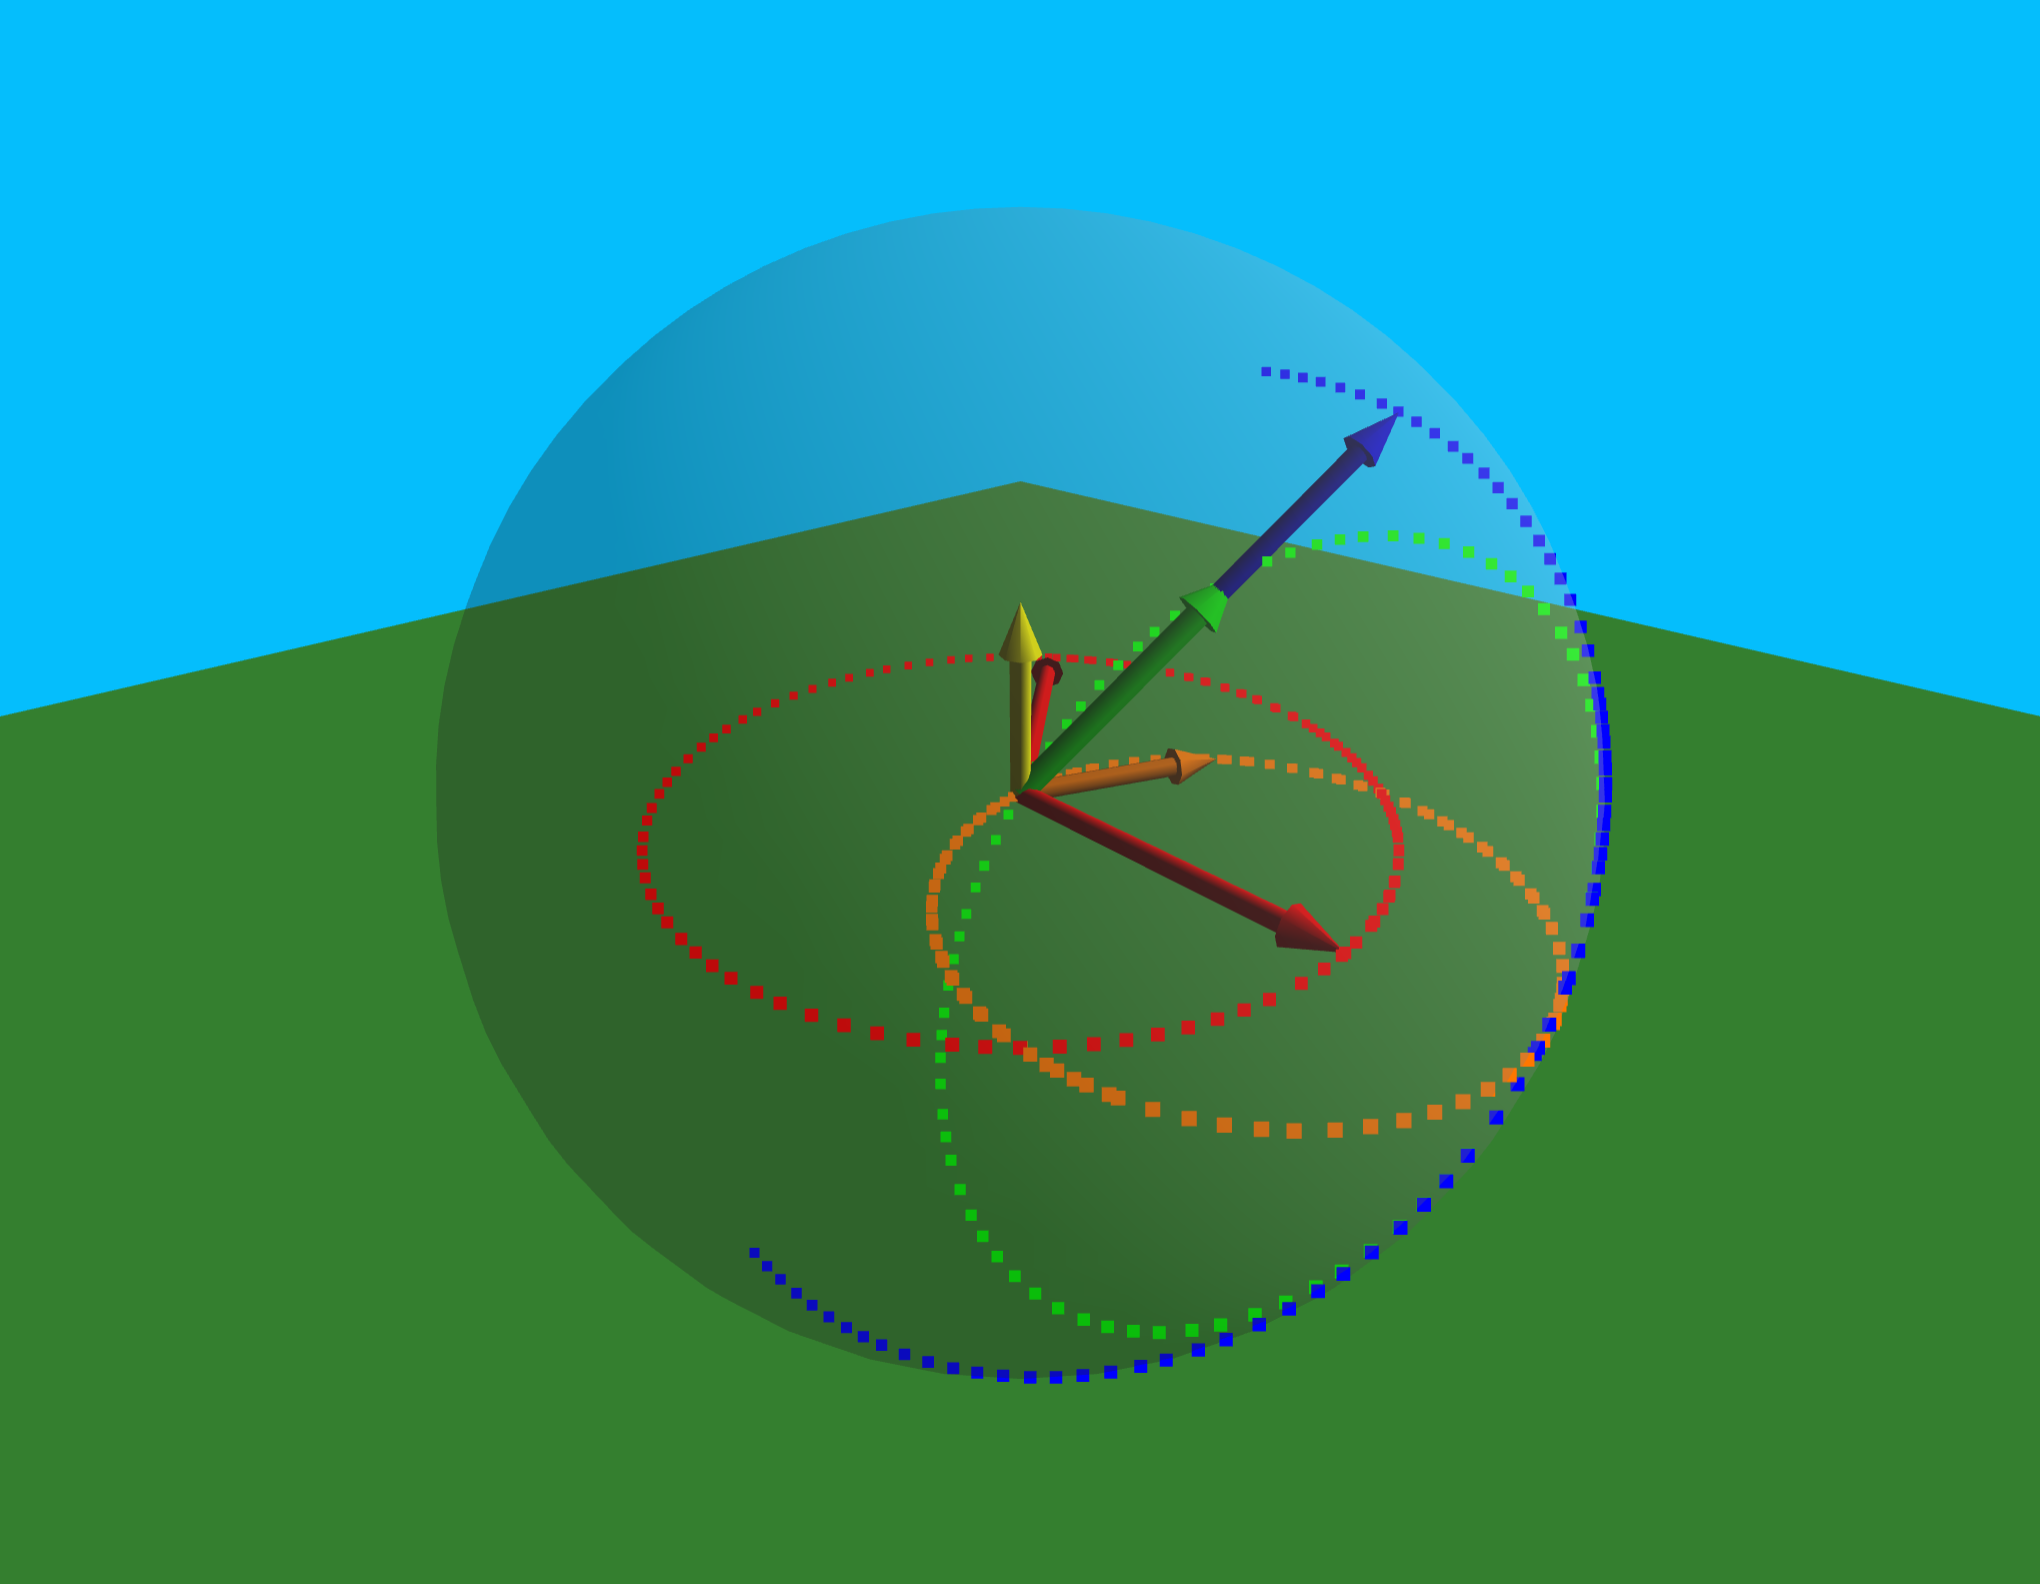
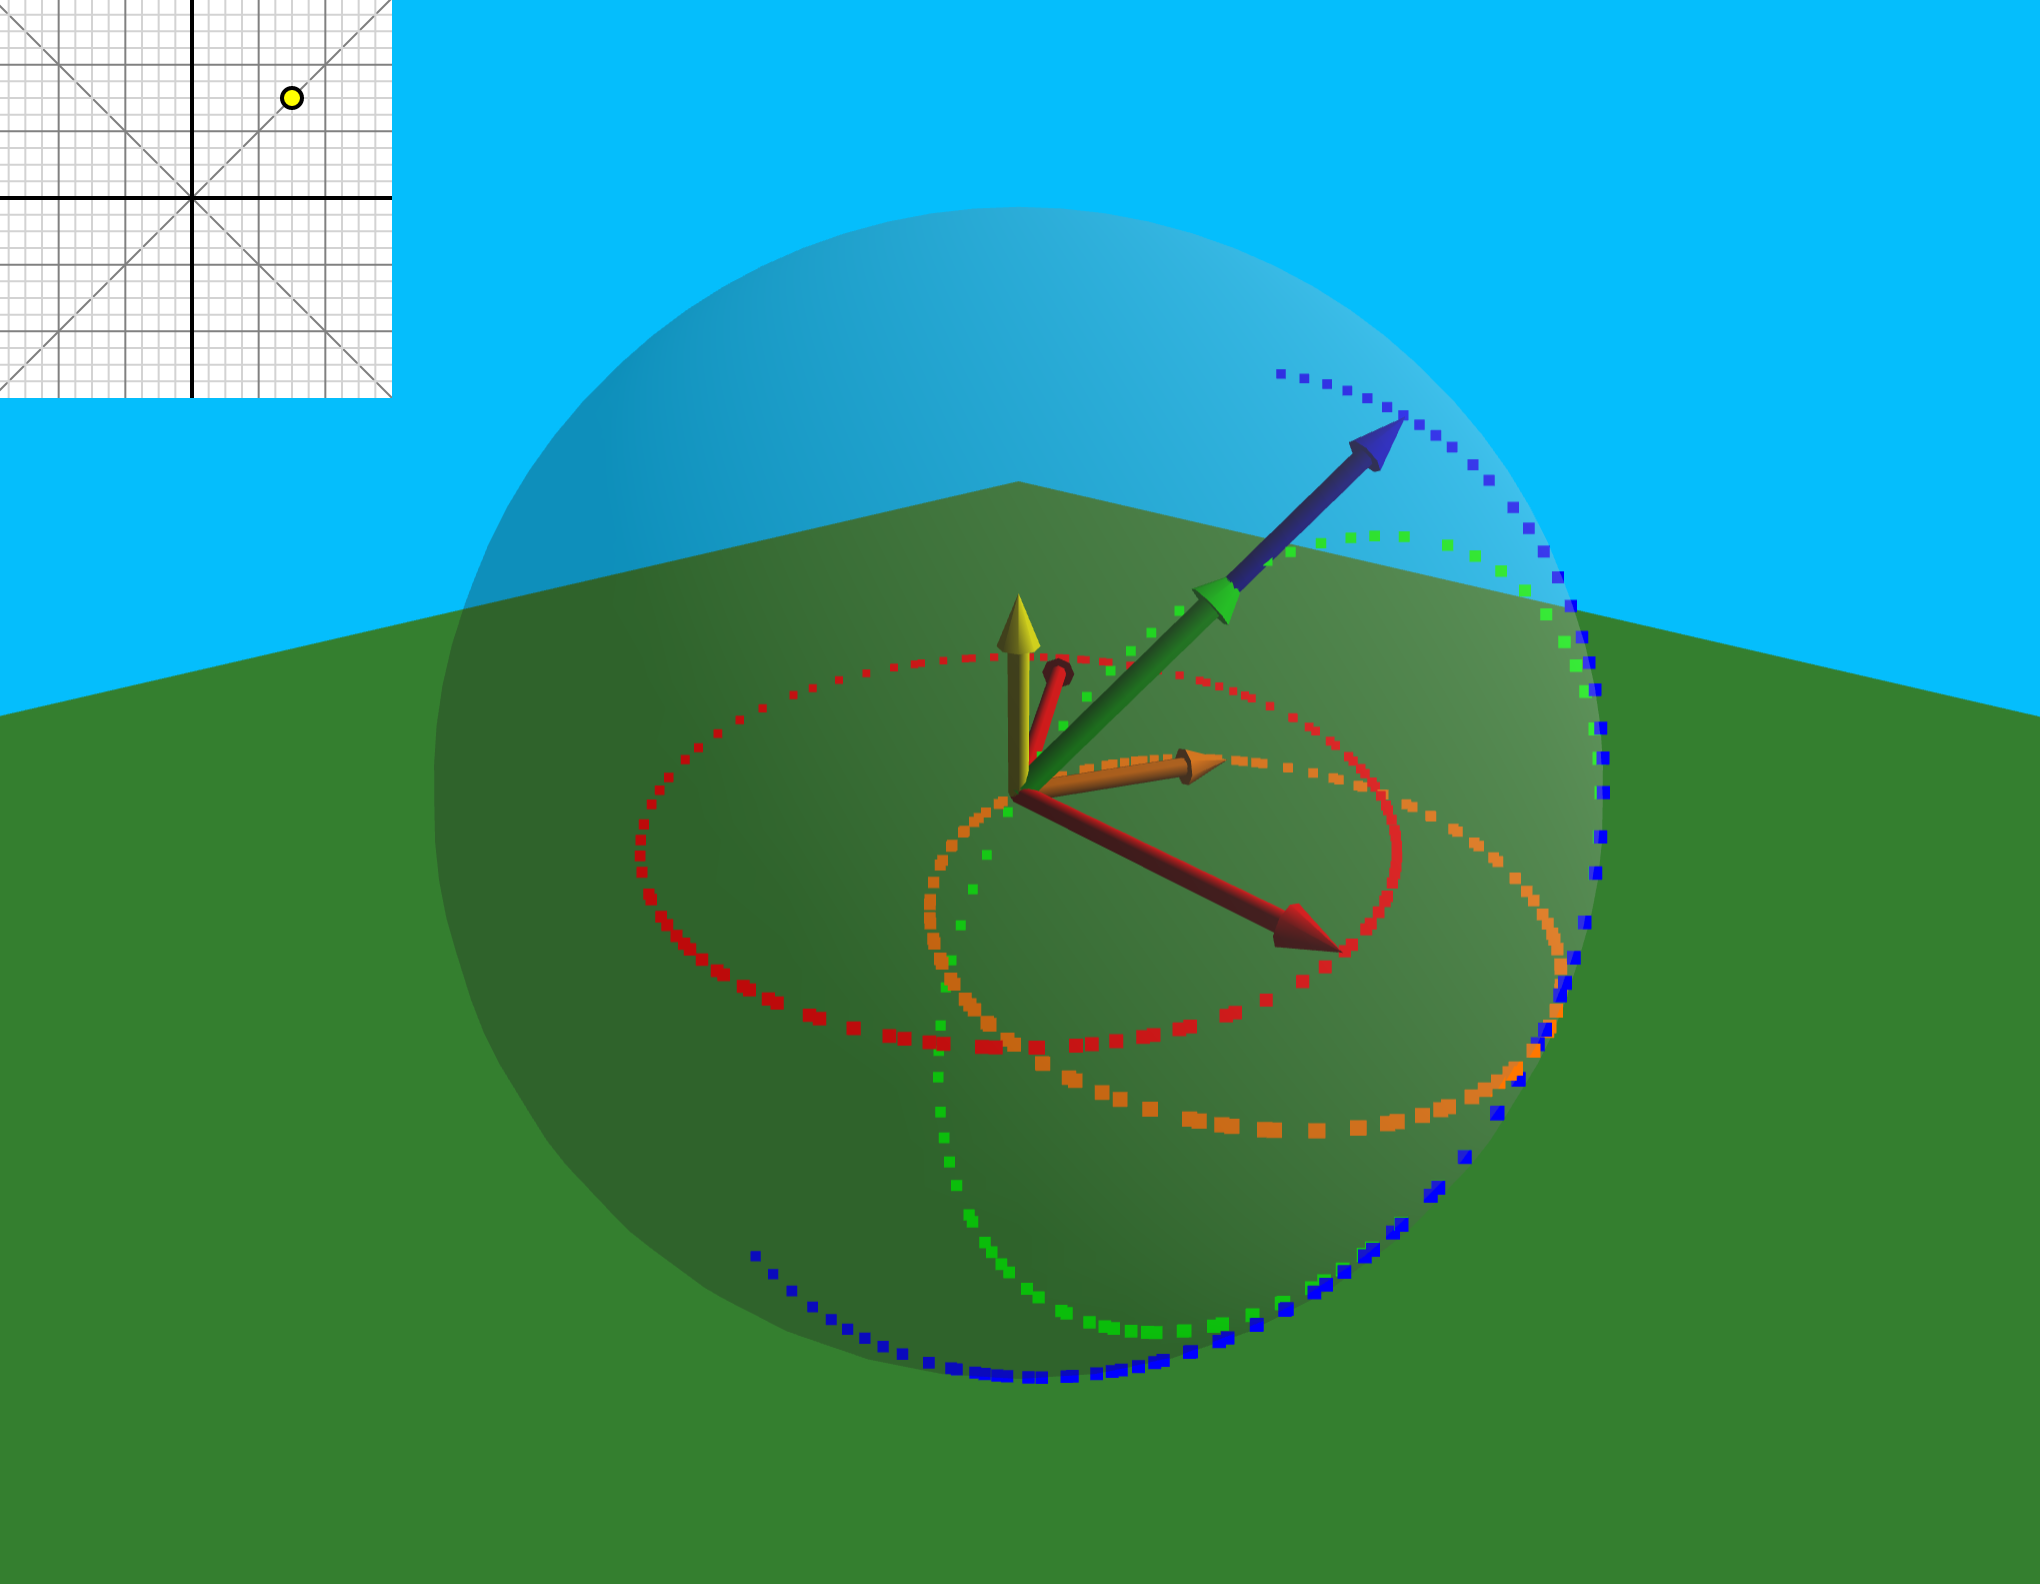
Better gridlines and snap-to grid. Updated readme

diff --git a/app.js b/app.js
@@ -8,6 +8,52 @@ turn = frac => 2*Math.PI * frac;
 deg = degs => turn(degs/360);
 xtoz = angle => v(Math.cos(angle), 0, Math.sin(angle));
 
+// ### SVG UTILITIES (from my OROM / Id work)
+attr_single = (elem, key, val_or_func) => {
+  let old;
+  if (key === 'textContent') old = elem.textContent;
+  else old = elem.getAttribute(key);
+
+  let value = typeof(val_or_func) === 'function' ? val_or_func(old) : val_or_func;
+  if (key === 'textContent') elem.textContent = value;
+  else if (value !== undefined) elem.setAttribute(key, value);
+
+  return old;
+};
+
+// e.g. attr(rect, {stroke_width: 5, stroke: 'red'})
+//      attr(rect, 'stroke', 'red')
+//      attr(rect, 'height', h => h+32)
+//      attr(rect, {fill: 'orange', height: h => h+32})
+attr = (elem, key_or_dict, val_or_nothing) => {
+  if (typeof(key_or_dict) === 'string') {
+    let key = key_or_dict;
+    let value = val_or_nothing;
+    return attr_single(elem, key, value);
+  } else {
+    let dict = key_or_dict;
+    for (let [k,v_or_f] of Object.entries(dict)) {
+      let key = k.replace('_','-');
+      attr_single(elem, key, v_or_f);
+    }
+  }
+}
+
+nums = (arr) => arr.map(x => +x);
+attrs = (el, ...keys) => keys.map(k => attr(el, k));
+props = (o,  ...keys) => keys.map(k => o[k]);
+
+create_element = (tag, attrs, parent, namespace) => {
+  let elem = document.createElementNS(namespace, tag);
+  if (attrs !== undefined) attr(elem, attrs);
+  if (parent === undefined) parent = window.svg;
+  parent.appendChild(elem);
+  return elem;
+};
+
+// e.g. rect = svgel('rect', {x: 5, y: 5, width: 5, height: 5}, svg)
+svgel = (tag, attrs, parent) => create_element(tag, attrs, parent, 'http://www.w3.org/2000/svg');
+
 // ### THREE.JS SETUP
 
 renderer = new e3.WebGLRenderer({ antialias: true });
@@ -313,6 +359,8 @@ function retrace() {
   });
 }
 
+// ### INDEPENDENTLY VARIABLE ANGLES UI
+
 function angles(a,b) {
   changed(angle_a, angle_a[0] = deg(a));
   changed(angle_b, angle_b[0] = deg(b));
@@ -320,21 +368,38 @@ function angles(a,b) {
 }
 
 svg = document.getElementById('angle-controls');
+gls = document.getElementById('gridlines');
+egls = document.getElementById('emph-gridlines');
+let granularity = 12;
+for (let i=1; i<granularity; i++) {
+  let g = i % 4 === 0 ? egls : gls;
+  // neg vertical
+  svgel('line', { x1: -i/granularity, x2: -i/granularity, y1: -1, y2: +1 }, g);
+  // neg horizontal
+  svgel('line', { y1: -i/granularity, y2: -i/granularity, x1: -1, x2: +1 }, g);
+  // pos vertical
+  svgel('line', { x1: i/granularity, x2: i/granularity, y1: -1, y2: +1 }, g);
+  // pos horizontal
+  svgel('line', { y1: i/granularity, y2: i/granularity, x1: -1, x2: +1 }, g);
+}
+
 angleMarker = document.getElementById('curr-angles');
 svg.onclick = e => {
   let r = svg.getBoundingClientRect();
+  let [halfW, halfH] = [r.width/2, r.height/2];
   let pos = v(e.clientX, e.clientY, 0);
   let center = v(r.left+r.right, r.top+r.bottom, 0).multiplyScalar(0.5);
   pos.sub(center); // from center
-  pos.multiply(v(360/r.width, -360/r.height)); // in (-180, +180) with Y up
+  pos.multiply(v(granularity/halfW, -granularity/halfH, 0)); // in (-12, +12) with Y up
+  pos.x = Math.round(pos.x); pos.y = Math.round(pos.y); // snap to grid
+  pos.multiplyScalar(180/granularity); // expand to degrees
   angles(pos.x, pos.y);
 };
 
 dependents.get(angle_a).add(angleMarker);
 dependents.get(angle_b).add(angleMarker);
 updates.set(angleMarker, function(circ) {
-  angleMarker.setAttribute('cx', angle_a[0] / Math.PI);
-  angleMarker.setAttribute('cy', angle_b[0] / Math.PI);
+  attr(angleMarker, { cx: angle_a[0] / Math.PI, cy: angle_b[0] / Math.PI });
 });
 
 function r() {

diff --git a/index.html b/index.html
@@ -11,17 +11,38 @@
         width: 200px;
         height: 200px;
         top: 0px;
-        background-color: #e8e8e8;
+        background-color: white;
       }
 
       #angle-controls * {
-        stroke-width: 0.01
+        stroke-width: 0.02;
+      }
+
+      #gridlines * {
+        stroke-width: 0.01;
+        stroke: lightgray;
+      }
+
+      #emph-gridlines * {
+        stroke-width: 0.01;
+        stroke: gray;
+      }
+
+      #diagonals * {
+        stroke-width: 0.01;
+        stroke: gray;
       }
     </style>
 </head>
 <body style="margin: 0px">
     <svg id="angle-controls" width="200" height="200" viewBox="-1 -1 2 2">
     <g transform="scale(1, -1)">
+      <g id="diagonals">
+        <line x1="-1" y1="-1" x2="+1" y2="+1" />
+        <line x1="-1" y1="+1" x2="+1" y2="-1" />
+      </g>
+      <g id="gridlines"></g>
+      <g id="emph-gridlines"></g>
       <line x1="-1" x2="+1" y1="0" y2="0" stroke="black" />
       <line y1="-1" y2="+1" x1="0" x2="0" stroke="black" />
       <circle id="curr-angles" cx="0.5" cy="0.5" r="0.05" stroke="black" fill="yellow" />

diff --git a/README.md b/README.md
@@ -1,14 +1,25 @@
 # 3d-rotation-composition
-Visualising how 3D rotations compose!
+Visualising how 3D rotations compose -- as VECTORS, not inscrutable matrices or quaternions.
+
+Inspired and greatly aided by the treatment in the *first* edition of *Structure And Interpretation Of Classical Mechanics* (rigid body chapter).
+
+**Definition**: A **mod-axis** (modulated axis) is a unit rotation axis scaled by the sine of half its rotation angle.
+
+Sine itself inverts to 2 angle values, but sine-half is actually **bijective**. Thus one key fact is that for every mod-axis there is a single corresponding rotation, and for every 3D rotation there is one single, canonical mod-axis.
+
+Without loss of generality, 3D rotation composition depends on only three parameters: the angle between the rotation axes, and the two angles around each axis. Each combination thereof reduces to a single 3D rotation about a composite angle and axis.
+
+Thus there is some sort of 3D scalar field where the temperature at each point represents the composite angle, as well as a 3D vector field with the composite axis interpreted as wind direction.
+
+This project aims to explore and visualise this space in a manner inspired by one of Bret Victor's essays. I even hope that some basic rules or patterns can be discovered and aid with 3D graphics programming once memorised.
+
+Currently, the graph at the top-left is the space of possible rotation angle pairs, with A horizontal and B vertical, both between -180 and +180 degrees. Clicking on an intersection of gridlines (15 degrees apart) will visualise via these angles, changing the final parameter (inter-axis angle) cyclically over time and tracing out the paths of the vectors.
 
 ![TwoRightAngles](TwoRightAngles.png)
 
 Key:
-
-* The **red** circle is the path traced by the second sin-half-rotation axis (`axis_b`) as it itself rotates. Thus the angle between `axis_b` and the fixed `axis_a` (also red) is changing over time.
+* The **red** circle is the path traced by the second mod-axis (`axis_b`) as it itself rotates. Thus the angle between `axis_b` and the fixed `axis_a` (also red) is changing over time.
 * The **orange** vector is roughly the "a plus b" vector (`a_p_b`). *(Actually, it is cos-half-angle-b times `axis_a` + cos-half-angle-a times `axis_b`)*
-* The **yellow** vector is the cross of `axis_a` and `axis_b`.
-* The **blue** vector is the **composite axis** (a followed by b); it is the *normalised* green vector.
-* The **green** vector is the sin-half-composite-angle composite-axis.
-
-(I will explain more soon)
+* The **yellow** vector is the cross of the two mod-axes a and b.
+* The **blue** vector is the **composite axis** (a followed by b); it is the *normalisation* of the green vector.
+* The **green** vector is the **composite mod-axis.**
